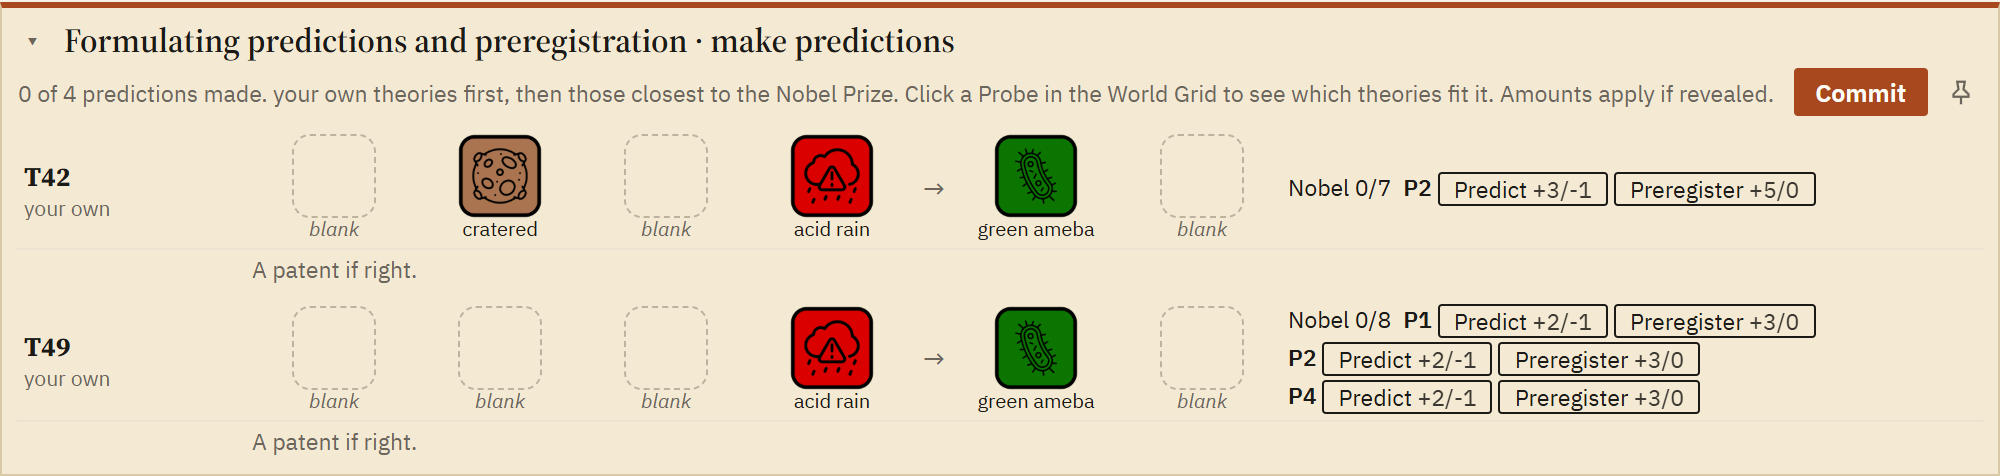
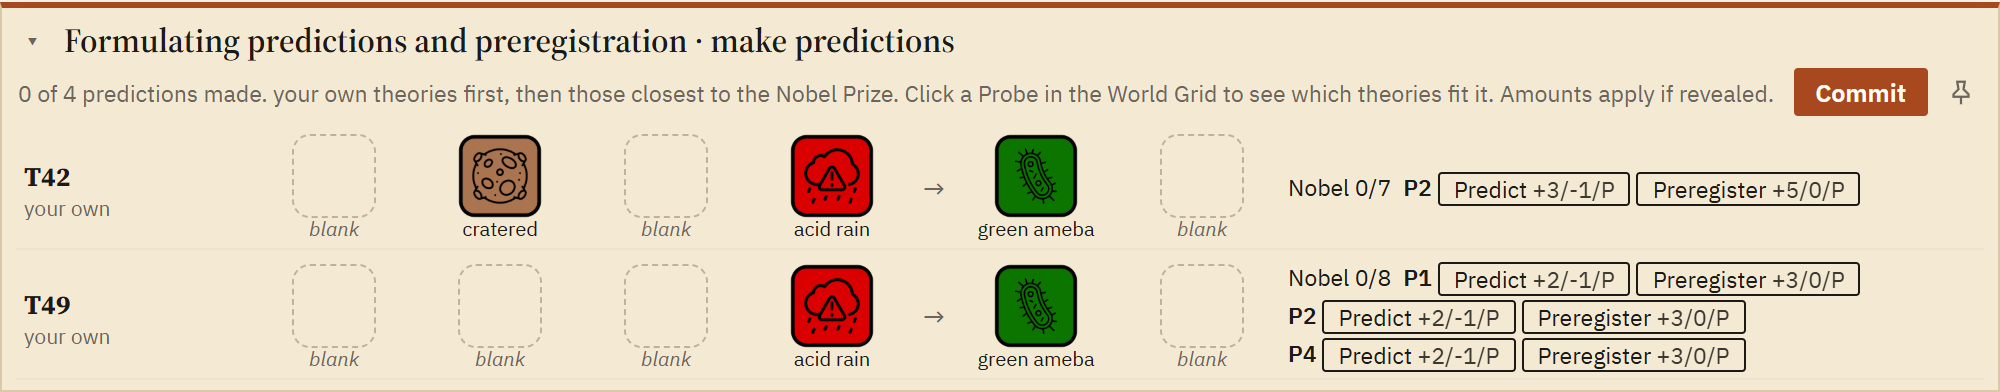
Prediction buttons: "/P" when a success would win the theory's patent
The separate patent line under each theory is gone; hovering still gives the full breakdown.

diff --git a/web/tasks.js b/web/tasks.js
@@ -122,11 +122,8 @@ function payoffText(x, preregister) {  // the breakdown, shown on hover
   return `${t("If right:")} ${t("{n} AC", { n: signed(own.success) })}${authorPart(x.author_success)}${patentPart(x)}. `
     + `${t("If wrong:")} ${t("{n} AC", { n: signed(own.failure) })}${authorPart(x.author_failure)}${simplified() ? "" : `, ${t("no patent")}`}.`;
 }
-function payoffLine(paper) {  // under the strip: only the patent, which the buttons' numbers leave out
-  const x = (preview().theories || {})[paper.id];
-  if (!x || !x.patent) return null;
-  return h("div", { class: "payoff muted" }, x.patent === "new" ? t("A patent if right.") : patentPart(x).replace(/^, /, ""));
-}
+// The button's amounts: "+3/-1", and "/P" when a success would win the theory's patent (nobody holds it yet).
+const payoffLabel = (x, amounts) => ` ${signed(amounts[0])}/${signed(amounts[1])}${x.patent === "new" ? "/P" : ""}`;
 function outcomeNote(x) {  // what a prediction does once revealed
   if (!x) return null;
   return h("span", { class: x.success ? "good" : "bad" },
@@ -155,11 +152,11 @@ function predictionRows(option) {
         return h("button", { class: on ? "primary" : "", title: hover || null, onclick: () => {
           if (made) send(made.cancel);
           if (!on) send(make);
-        } }, label, amounts ? h("span", { class: "button-credit" }, ` ${signed(amounts[0])}/${signed(amounts[1])}`) : null);
+        } }, label, amounts ? h("span", { class: "button-credit" }, payoffLabel(x, amounts)) : null);
       };
       return h("span", { class: "pair" }, h("b", {}, `P${probe + 1}`), choice(false, t("Predict")), choice(true, t("Preregister")));
     };
-    return [theoryStrip(p, [info(t("Nobel {n}/{max}", { n: p.nobel, max: p.nobel_threshold })), probes.map(pair)]), payoffLine(p)];
+    return [theoryStrip(p, [info(t("Nobel {n}/{max}", { n: p.nobel, max: p.nobel_threshold })), probes.map(pair)])];
   });
 }
 

diff --git a/docs/specification.md b/docs/specification.md
@@ -287,7 +287,7 @@ The web UI's world states become icons in strips. This section records the desig
 - *Peer review:* the same strips that expand to boxes, in the task panel, with the vote buttons. The player's own manuscripts come first, marked "your own" in bold.
 - *Grants row:* while allocating staff, and when choosing which students leave if some of them are on Grants, the row shows how many staff the current Grant funding position needs ("grant track needs: n"); while allocating, the row is grey until it has that many. Under the allocation, and at the top of the Submission task, a line counts the player's **publications due this round** (manuscripts in the Accept area with 0 Rounds in processing tokens, published in this round's Clean-up phase) against what the position expects to keep it and to move up; it is bold while short of keeping it (`nv_core.preview.grant_publications`; not in the simplified game).
 - *Hiring:* number boxes have a large minus and plus on either side, also when choosing which students leave. "max" next to the postdoc and student boxes fills in as many as the player can have. "Repeat" fills in the player's task allocation of the previous round, as made at hiring, and leaves the hiring numbers alone. A staff column is grey until every hired staff member of that type has a task and red when too many have. The form's Commit button sets the allocation and commits in one click (the commit is sent only once the allocation is accepted), and it works only when both columns add up. Choosing which students leave is committed the same way.
-- *Predictions:* each Predict and Preregister button shows what that revealed prediction would bring the player in total, if right and if wrong ("+3/-1"; the citation reward or penalty included when the cited theory is the player's own); hovering it gives the breakdown. Under each theory, one line tells about the patent. In the Reveal step each prediction shows its outcome and consequences; preregistered predictions follow at the end, read-only.
+- *Predictions:* each Predict and Preregister button shows what that revealed prediction would bring the player in total, if right and if wrong ("+3/-1"; the citation reward or penalty included when the cited theory is the player's own); a "/P" at the end ("+3/-1/P") means a success would win the theory's patent, which nobody holds yet; hovering it gives the breakdown. In the Reveal step each prediction shows its outcome and consequences; preregistered predictions follow at the end, read-only.
 - *Prediction report:* after scoring, each person's task panel shows every revealed prediction of the round by player: success, failed or (if the game ended during scoring) not scored, credit, the author's citation credit and the patent, with a note on a prediction that won the Nobel Prize and, in the Crisis, the missed Probes and running count. "Next", where Commit usually is, closes it. The report belongs to the player's own panel: the game does not wait for it, and a seat handed to an automated player gets none. It is skipped when nothing was revealed and no Probe was missed. At its bottom, the round's World Grid as revealed (readings, outcomes, sensors, Probe time, Hot topic), copied before scoring clears the Probes, so players can study it as long as they like and reopen it from the Reports panel until the next prediction report; so there is a prediction report every round, also when nobody predicted.
 - *Phase reports:* like the prediction report, at the end of each other part of the round: Hiring (after the Student task check; with the last chance to leave alliances and the Game Period cards revealed), Experimentation (after Probe time is claimed, so including Probe time), Development and publication (after Peer review) and Talent development and clean-up (at the end of the round, also when the game ends there). The Hiring report opens with a staff table shaped like the allocation form: one row per task, one column per researcher (the player first), counting the staff who stayed after the Student task check, then rows for all staff, those hired (and fired), and the students who left; the allocation and student lines are left out below it. Each lists what every researcher did, one line per event of that part, and their academic credit before and after with each change and its reason. The player's own section comes first, then the others in turn order after them; this order holds for the prediction report too. A researcher sees only what the event log shows them: others' experiments without results, review outcomes without who voted how, their own experiment results and new development stacks. The engine (`nv_core/engine/reports.py`) keeps the events of the part being played and the credit at its start in the game state, and at the end of the part freezes them into that part's report, which replaces the previous one; the view filters its lines by visibility. The report buttons are "Next", "Stop reports on this phase" and "Stop all reports". The Reports panel, low in the right column, turns each part's reports, or all of them, on again (starting with the next report), and shows the latest report of each part again. Which reports are on is remembered in the browser for all games; which ones were closed, for each game. A player who was away sees the reports of the latest round of reports one after the other, oldest first. Lines are drawn through `t()` from each event's data, falling back to the event log's English text for events without it; the credit reasons are in English, like the event log.
 - *Submission:* the box shows the projected rounds in processing and the bonuses behind it, assuming acceptance this round.
